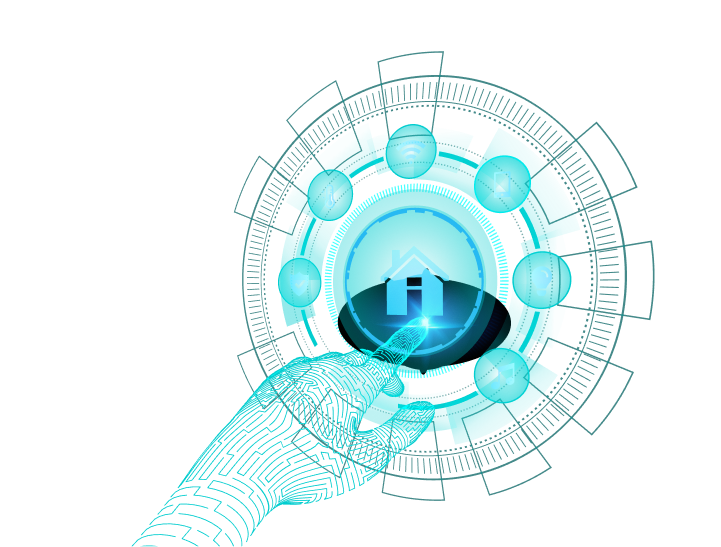
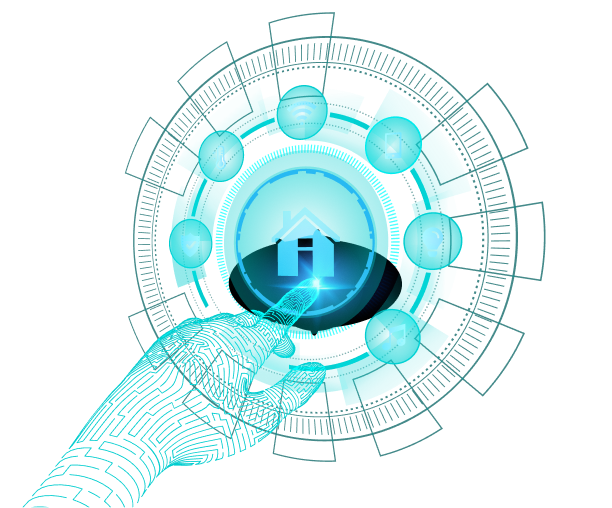
uncoment code

diff --git a/index.html b/index.html
@@ -135,7 +135,7 @@
         </header>
         <!--========================= Ai-Powered Home Assistant ========================= -->
         <section class="position-relative index_1">
-            <img src="/assets/images/webp/assistent_left_shadow.webp"
+            <img src="/assets/images/png/assistent_left_shadow.png"
                 class="assistent_left_shadow position-absolute index_m_1 end-0 d-none d-md-inline"
                 alt="assistent_right_shadow">
             <img src="/assets/images/png/assistent_right_shadow.png"
@@ -187,41 +187,49 @@
             </div>
         </section>
         <!--========================= What is NexAi?  ========================= -->
-        <section class="position-relative index_5">
-            <div class="container custom_container">
-                <div class="row" data-aos="zoom-in" data-aos-duration="1000">
-                    <div class="col-lg-6 my-auto ps-xl-5 mt-4 mt-md-5 mt-lg-0 index_5">
-                        <h2 class="color_light_green main_heading_l_h font-xl ff_reachare mb-3">
-                            What is NexAi?
-                        </h2>
-                        <p class="para_l_h text-white opacity_07 ff_poppin fw-normal mb-2">
-                            Beyond its convenience, Nexai revolutionizes the way you interact with your home
-                            environment. It enhances productivity,
-                            efficiency, and overall well-being. From managing your schedules to transforming the way you
-                            experience smart living,
-                            Nexai opens up a world of possibilities.
-                        </p>
-                        <p class="para_l_h text-white opacity_07 ff_poppin fw-normal mb-2">
-                            Nexai's software can be installed on all your smart devices, including smartphones,
-                            computers, smart TVs, and kitchen
-                            appliances. It acts as a centralized control hub, allowing you to manage and interact with
-                            all your devices seamlessly.
-                            Whether it's adjusting the temperature, turning on appliances, or even accessing files on
-                            your home computer from
-                            anywhere, Nexai empowers you with effortless control.
-                        </p>
+        <div class="">
+            <div class="globe_img_container">
+                <div class="container custom_container">
+                    <div class="row justify-content-center" data-aos="zoom-in" data-aos-duration="1000">
+                        <div class="col-lg-6 my-auto pe-xl-5 index_5">
+                            <h2 class="color_light_green main_heading_l_h font-xl ff_reachare mb-3">
+                                What is NexAi?
+                            </h2>
+                            <p class="para_l_h text-white opacity_07 ff_poppin fw-normal mb-2">
+                                Beyond its convenience, Nexai revolutionizes the way you interact with your home
+                                environment. It enhances productivity,
+                                efficiency, and overall well-being. From managing your schedules to transforming the way
+                                you
+                                experience smart living,
+                                Nexai opens up a world of possibilities.
+                            </p>
+                            <p class="para_l_h text-white opacity_07 ff_poppin fw-normal mb-2">
+                                Nexai's software can be installed on all your smart devices, including smartphones,
+                                computers, smart TVs, and kitchen
+                                appliances. It acts as a centralized control hub, allowing you to manage and interact
+                                with
+                                all your devices seamlessly.
+                                Whether it's adjusting the temperature, turning on appliances, or even accessing files
+                                on
+                                your home computer from
+                                anywhere, Nexai empowers you with effortless control.
+                            </p>
 
-                        <div class=" mt-4 pt-2">
-                            <button class="common_btn d-inline-block ff_reachare ">
-                                Learn More
-                            </button>
+                            <div class=" mt-4 pt-2">
+                                <button class="common_btn d-inline-block ff_reachare ">
+                                    Learn More
+                                </button>
+                            </div>
                         </div>
-                    </div>
-                    <div class="col-md-9 col-lg-6 index_5">
-
+                        <div class="col-md-9 col-lg-6 mt-5 m-lg-auto">
+                            <div class="w-100 text-center">
+                                <img src="/assets/images/png/what_nexai.png" alt="what_nexai" class="w-75 ">
+                            </div>
+                        </div>
                     </div>
                 </div>
             </div>
+        </div>
         </section>
         <!--========================= Ready to get started Talk to us Today  ========================= -->
         <section class="position-relative index_1">
@@ -336,6 +344,7 @@
                         </div>
                     </div>
                 </div>
+
                 <div class="py-1 border_top mt-3">
                     <p class="fw-normal font-xs text-white opacity_07 text-center mb-0 py-3">@Copyright.nexai</p>
                 </div>

diff --git a/assets/css/custom.css b/assets/css/custom.css
@@ -17,9 +17,26 @@
     line-height: 50.4px;
 }
 
+/* ----------------------- What Is Nexai Css ----------------------  */
+.globe_img {
+    width: 535px;
+}
+
+.globe_img_container {
+    background-image: url("/assets/images/png/globe_frame_bg.png");
+    background-size: 100% 100%;
+    padding: 140px 100px;
+    background-repeat: no-repeat;
+}
+
+.globe_img_container {
+    max-width: 1340px;
+    margin: auto;
+}
+
 /* ----------------------- Ai-Powered Home Assistant Css ----------------------  */
 .assistent_left_shadow {
-    top: -34px;
+    top: -187px;
 }
 
 .assistent_right_shadow {
@@ -74,10 +91,6 @@
 /* media query only */
 
 @media (min-width: 992px) {
-    .mw_867 {
-        max-width: 867px;
-    }
-
     .accordion-body {
         padding: 1.25rem 1rem 1.25rem 0rem !important;
         max-width: 80%;
@@ -85,8 +98,14 @@
 }
 
 @media (max-width: 1199.98px) {
-    .contact_us_mobile_img {
-        max-height: 550px;
+    .globe_img_container {
+        max-width: 940px;
+        margin: auto;
+    }
+
+    .globe_img_container {
+        padding: 60px 21px;
+        background-repeat: no-repeat;
     }
 
     .hero_bg {
@@ -112,10 +131,22 @@
         background-size: cover !important;
     }
 
+    .mw_867 {
+        max-width: 867px;
+    }
+
     .common_btn {
         padding: 8px 31px;
         border-radius: 12px;
         min-height: 49px;
+    }
+
+    .globe_img_container {
+        max-width: 697px !important;
+    }
+
+    .globe_img_container {
+        padding: 50px !important;
     }
 }
 
@@ -124,8 +155,17 @@
         background-position: right !important;
     }
 
+    .globe_img_container {
+        max-width: 345px !important;
+
+    }
+
     .common_btn {
         min-height: 41px;
+    }
+
+    .globe_img_container {
+        padding: 30px 8px !important;
     }
 }
 

diff --git a/assets/css/style.css b/assets/css/style.css
@@ -343,4 +343,9 @@ nav li a:hover::after {
         max-width: 1140px !important;
         margin: auto;
     }
+
+    .globe_img_container {
+        max-width: 1340px !important;
+        margin: auto;
+    }
 }
